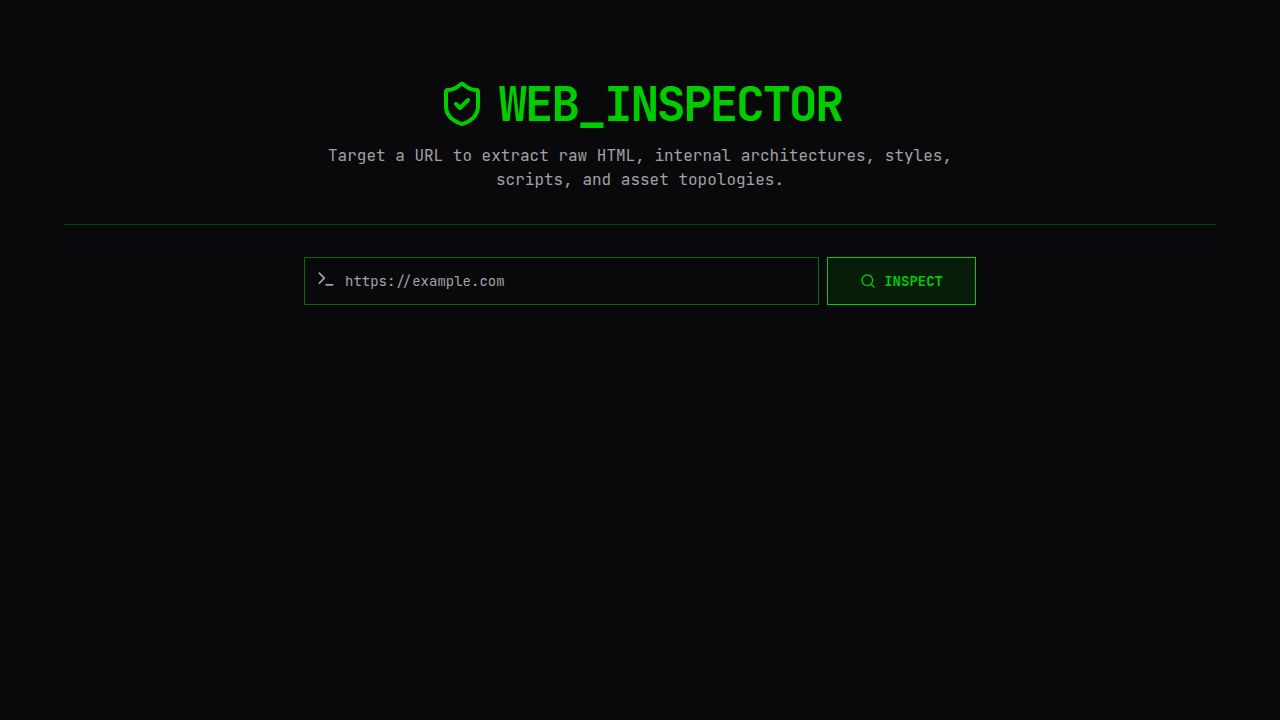
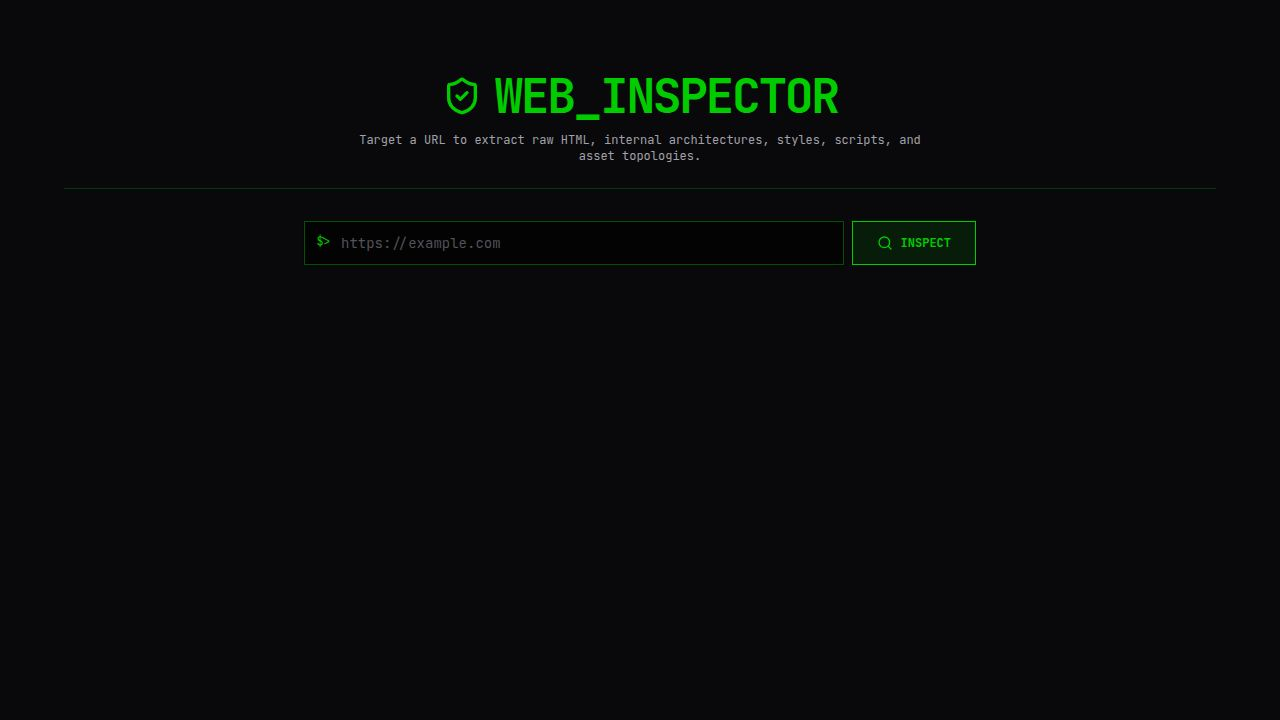
Improve website inspector to find more embedded video sources
Update the inspector to detect iframes from inline scripts, __NEXT_DATA__ JSON, and the Next.js data endpoint. Also, improve the User-Agent to mimic a real browser.

Replit-Commit-Author: Agent
Replit-Commit-Session-Id: 0fe70983-d9b6-46e9-8103-156c3c48454d
Replit-Commit-Checkpoint-Type: full_checkpoint
Replit-Commit-Event-Id: 756c11a2-8a4b-42e3-be5f-807f06f4b227
Replit-Commit-Screenshot-Url: https://storage.googleapis.com/screenshot-production-us-central1/3e0b443d-0e99-48c3-a25c-0f0e003f94c9/0fe70983-d9b6-46e9-8103-156c3c48454d/BZeoJWh
Replit-Helium-Checkpoint-Created: true

Changed region(s): [[0.25, 0.0917, 0.75, 0.275], [0.625, 0.3056, 0.7812, 0.4278], [0.2188, 0.3056, 0.4062, 0.3972]]

diff --git a/artifacts/api-server/src/routes/inspector.ts b/artifacts/api-server/src/routes/inspector.ts
@@ -53,9 +53,15 @@ router.post("/inspect", async (req, res) => {
       response = await fetch(targetUrl, {
         signal: controller.signal,
         headers: {
-          "User-Agent": "Mozilla/5.0 (compatible; WebInspector/1.0)",
-          Accept: "text/html,application/xhtml+xml,application/xml;q=0.9,*/*;q=0.8",
-          "Accept-Language": "en-US,en;q=0.5",
+          "User-Agent": "Mozilla/5.0 (Windows NT 10.0; Win64; x64) AppleWebKit/537.36 (KHTML, like Gecko) Chrome/124.0.0.0 Safari/537.36",
+          Accept: "text/html,application/xhtml+xml,application/xml;q=0.9,image/avif,image/webp,*/*;q=0.8",
+          "Accept-Language": "es-MX,es;q=0.9,en-US;q=0.8,en;q=0.7",
+          "Accept-Encoding": "gzip, deflate, br",
+          "Cache-Control": "no-cache",
+          "Pragma": "no-cache",
+          "Sec-Fetch-Dest": "document",
+          "Sec-Fetch-Mode": "navigate",
+          "Sec-Fetch-Site": "none",
         },
         redirect: "follow",
       });
@@ -168,6 +174,85 @@ router.post("/inspect", async (req, res) => {
       if (src) iframeSrcs.push(resolveUrl(finalUrl, src));
     });
 
+    // Extract video/embed URLs from inline scripts and __NEXT_DATA__ JSON
+    // Many React/Next.js sites load iframes dynamically, so they won't appear
+    // as <iframe> tags in static HTML — but the URLs are in the page data.
+    const embedUrlPattern = /https?:\/\/[^\s"'\\]+\/(?:embed|player|e|tv)\/[^\s"'\\<>]{4,}/gi;
+    const knownVideoHosts = /youtube|vimeo|dood|streamtape|filemoon|vidmoly|streamwish|uqload|ok\.ru|dailymotion|kwik|mp4upload|sibnet|mixdrop|fembed|emturbovid|vidhide|voe\.sx|upstream|speedvid|gdriveplayer|vidapi/i;
+
+    function extractEmbedUrls(text: string, onlyKnown = false): string[] {
+      const found: string[] = [];
+      const pat = new RegExp(embedUrlPattern.source, "gi");
+      let m: RegExpExecArray | null;
+      while ((m = pat.exec(text)) !== null) {
+        const url = m[0].replace(/[,"'\\]+$/, "");
+        if (!onlyKnown || knownVideoHosts.test(url)) {
+          if (!iframeSrcs.includes(url) && !found.includes(url)) found.push(url);
+        }
+      }
+      return found;
+    }
+
+    // Search __NEXT_DATA__ JSON (contains ALL server-side props, all video servers)
+    const nextDataEl = $('script#__NEXT_DATA__').html();
+    if (nextDataEl) {
+      for (const u of extractEmbedUrls(nextDataEl)) {
+        iframeSrcs.push(u);
+      }
+    }
+
+    // Try fetching Next.js data endpoint — this often has ALL video sources pre-loaded
+    if (nextDataEl) {
+      try {
+        const ndParsed = JSON.parse(nextDataEl);
+        const buildId: string | undefined = ndParsed?.buildId;
+        if (buildId) {
+          const parsedTarget = new URL(finalUrl);
+          const dataPath = `/_next/data/${buildId}${parsedTarget.pathname}.json${parsedTarget.search}`;
+          const dataUrl = `${parsedTarget.origin}${dataPath}`;
+          const ndController = new AbortController();
+          const ndTimeout = setTimeout(() => ndController.abort(), 8000);
+          try {
+            const ndRes = await fetch(dataUrl, {
+              signal: ndController.signal,
+              headers: {
+                "User-Agent": "Mozilla/5.0 (Windows NT 10.0; Win64; x64) AppleWebKit/537.36 (KHTML, like Gecko) Chrome/124.0.0.0 Safari/537.36",
+                Accept: "application/json",
+              },
+            });
+            if (ndRes.ok) {
+              const ndJson = await ndRes.text();
+              for (const u of extractEmbedUrls(ndJson)) {
+                iframeSrcs.push(u);
+              }
+            }
+          } finally {
+            clearTimeout(ndTimeout);
+          }
+        }
+      } catch {
+        // Non-fatal — Next.js data endpoint is best-effort
+      }
+    }
+
+    // Search all inline scripts for embed URLs from known video hosts
+    $("script:not([src])").each((_, el) => {
+      const content = $(el).html() || "";
+      for (const u of extractEmbedUrls(content, true)) {
+        iframeSrcs.push(u);
+      }
+    });
+
+    // Also extract src="..." / src='...' from raw HTML (catches JS string literals with iframe URLs)
+    const srcAttrPattern = /(?:src|iframe)[=:\s]+["']?(https?:\/\/[^\s"'\\<>]{10,}\/(?:embed|player|e|tv|video)\/[^\s"'\\<>]{4,})/gi;
+    let srcMatch: RegExpExecArray | null;
+    while ((srcMatch = srcAttrPattern.exec(html)) !== null) {
+      const candidate = srcMatch[1].replace(/[,"'\\]+$/, "");
+      if (!iframeSrcs.includes(candidate)) {
+        iframeSrcs.push(candidate);
+      }
+    }
+
     const technologies = detectTechnologies({
       html,
       headers: responseHeaders,
@@ -194,6 +279,7 @@ router.post("/inspect", async (req, res) => {
       cookies: rawCookies,
       wordCount,
       byteSize,
+      iframeSrcs,
       inspectedAt: new Date().toISOString(),
     };
 

diff --git a/artifacts/web-inspector/src/pages/home.tsx b/artifacts/web-inspector/src/pages/home.tsx
@@ -6,7 +6,7 @@ import { useInspectUrl, useFetchResource } from "@workspace/api-client-react";
 import {
   Search, Terminal, AlertTriangle, Code, Globe, FileCode2,
   FileJson, Image as ImageIcon, Link as LinkIcon, FormInput,
-  ExternalLink, ShieldCheck, Cpu, ChevronRight,
+  ExternalLink, ShieldCheck, Cpu, ChevronRight, MonitorPlay,
 } from "lucide-react";
 import { Button } from "@/components/ui/button";
 import { Input } from "@/components/ui/input";
@@ -177,6 +177,7 @@ export default function Home() {
               <TabsList className="w-full justify-start overflow-x-auto rounded-none bg-transparent border-b border-border/40 p-0 h-auto flex-nowrap">
                 {[
                   { value: "tech", label: `techs (${results.technologies.length})` },
+                  { value: "iframes", label: `iframes (${results.iframeSrcs?.length ?? 0})` },
                   { value: "html", label: "html" },
                   { value: "headers", label: `headers (${results.responseHeaders.length})` },
                   { value: "meta", label: `meta (${results.metaTags.length})` },
@@ -236,6 +237,47 @@ export default function Home() {
                               .map(([cat, names]) => `  "${cat}": [${names.map((n) => `"${n}"`).join(", ")}]`)
                               .join(",\n") +
                             `\n};`}
+                        </CodeBlock>
+                      </div>
+                    </div>
+                  )}
+                </TabsContent>
+
+                {/* IFRAMES */}
+                <TabsContent value="iframes" className="mt-0 p-4">
+                  <CodeComment text={`// iframes & embedded players detected (${results.iframeSrcs?.length ?? 0}) — includes dynamic sources from scripts`} />
+                  {!results.iframeSrcs || results.iframeSrcs.length === 0 ? (
+                    <EmptyState msg="// no iframes or embedded players found" />
+                  ) : (
+                    <div className="mt-3 space-y-2">
+                      {results.iframeSrcs.map((src, i) => {
+                        let host = "";
+                        try { host = new URL(src).hostname; } catch { host = "unknown"; }
+                        return (
+                          <div key={i} className="flex items-start gap-3 border border-border/30 bg-black/30 p-3 hover:border-primary/30 transition-colors">
+                            <MonitorPlay className="w-3.5 h-3.5 text-primary shrink-0 mt-0.5" />
+                            <div className="min-w-0 flex-1">
+                              <div className="flex items-center gap-2 flex-wrap mb-1">
+                                <span className="text-[10px] border border-primary/40 text-primary px-1.5 py-0.5">{`Servidor ${i + 1}`}</span>
+                                <span className="text-[10px] text-muted-foreground border border-border/50 px-1.5 py-0.5">{host}</span>
+                              </div>
+                              <div className="text-[11px] text-green-300/80 break-all leading-relaxed">{src}</div>
+                            </div>
+                            <a
+                              href={src}
+                              target="_blank"
+                              rel="noopener noreferrer"
+                              className="shrink-0 mt-0.5"
+                              onClick={(e) => e.stopPropagation()}
+                            >
+                              <ExternalLink className="w-3 h-3 text-muted-foreground hover:text-primary" />
+                            </a>
+                          </div>
+                        );
+                      })}
+                      <div className="mt-4 pt-3 border-t border-border/20">
+                        <CodeBlock>
+                          {results.iframeSrcs.map((src, i) => `// Servidor ${i + 1}\n<iframe src="${src}" />`).join("\n\n")}
                         </CodeBlock>
                       </div>
                     </div>